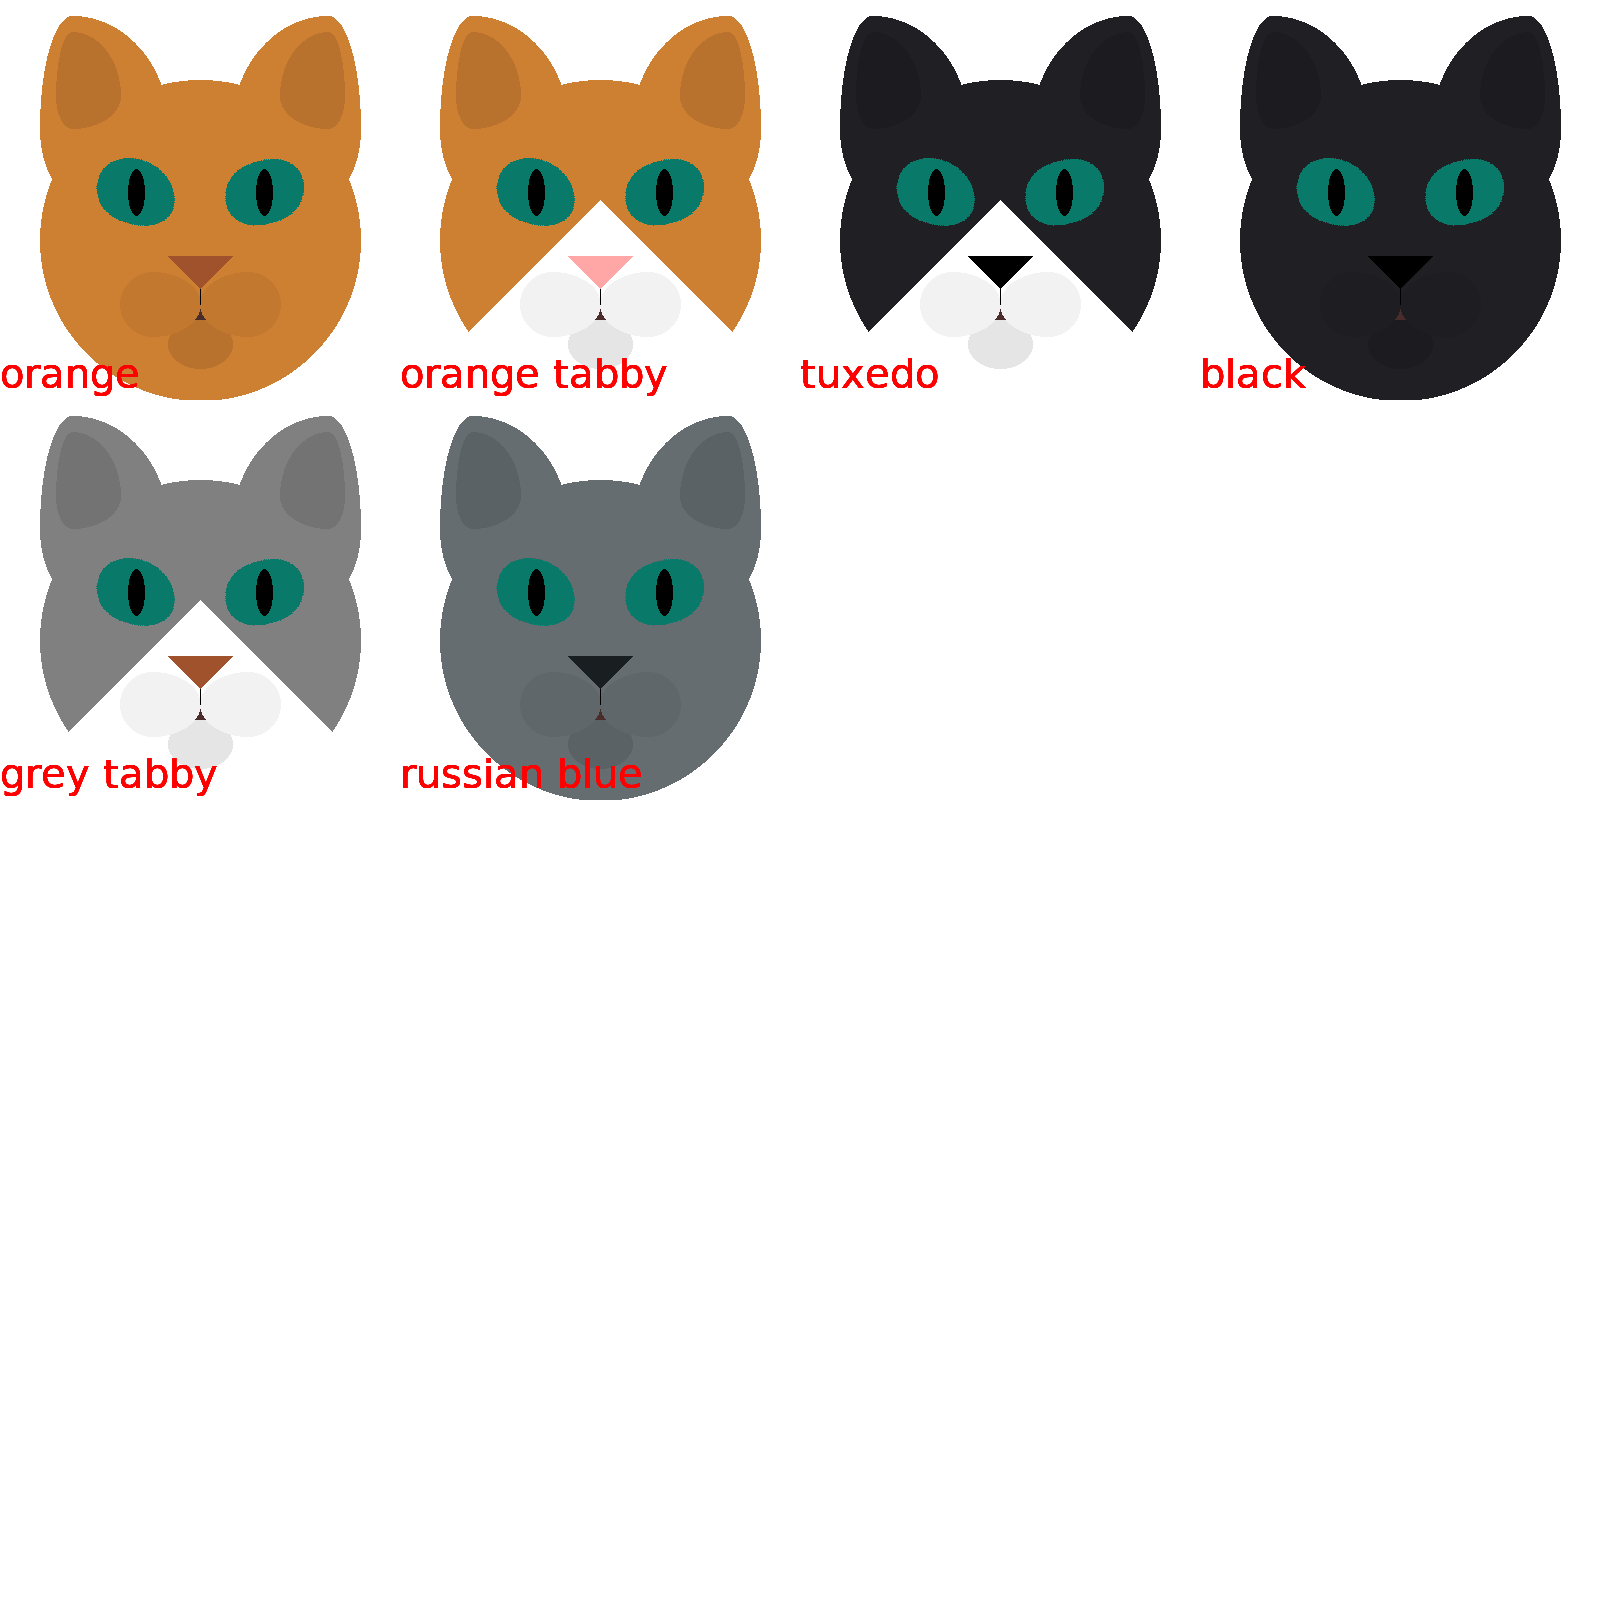
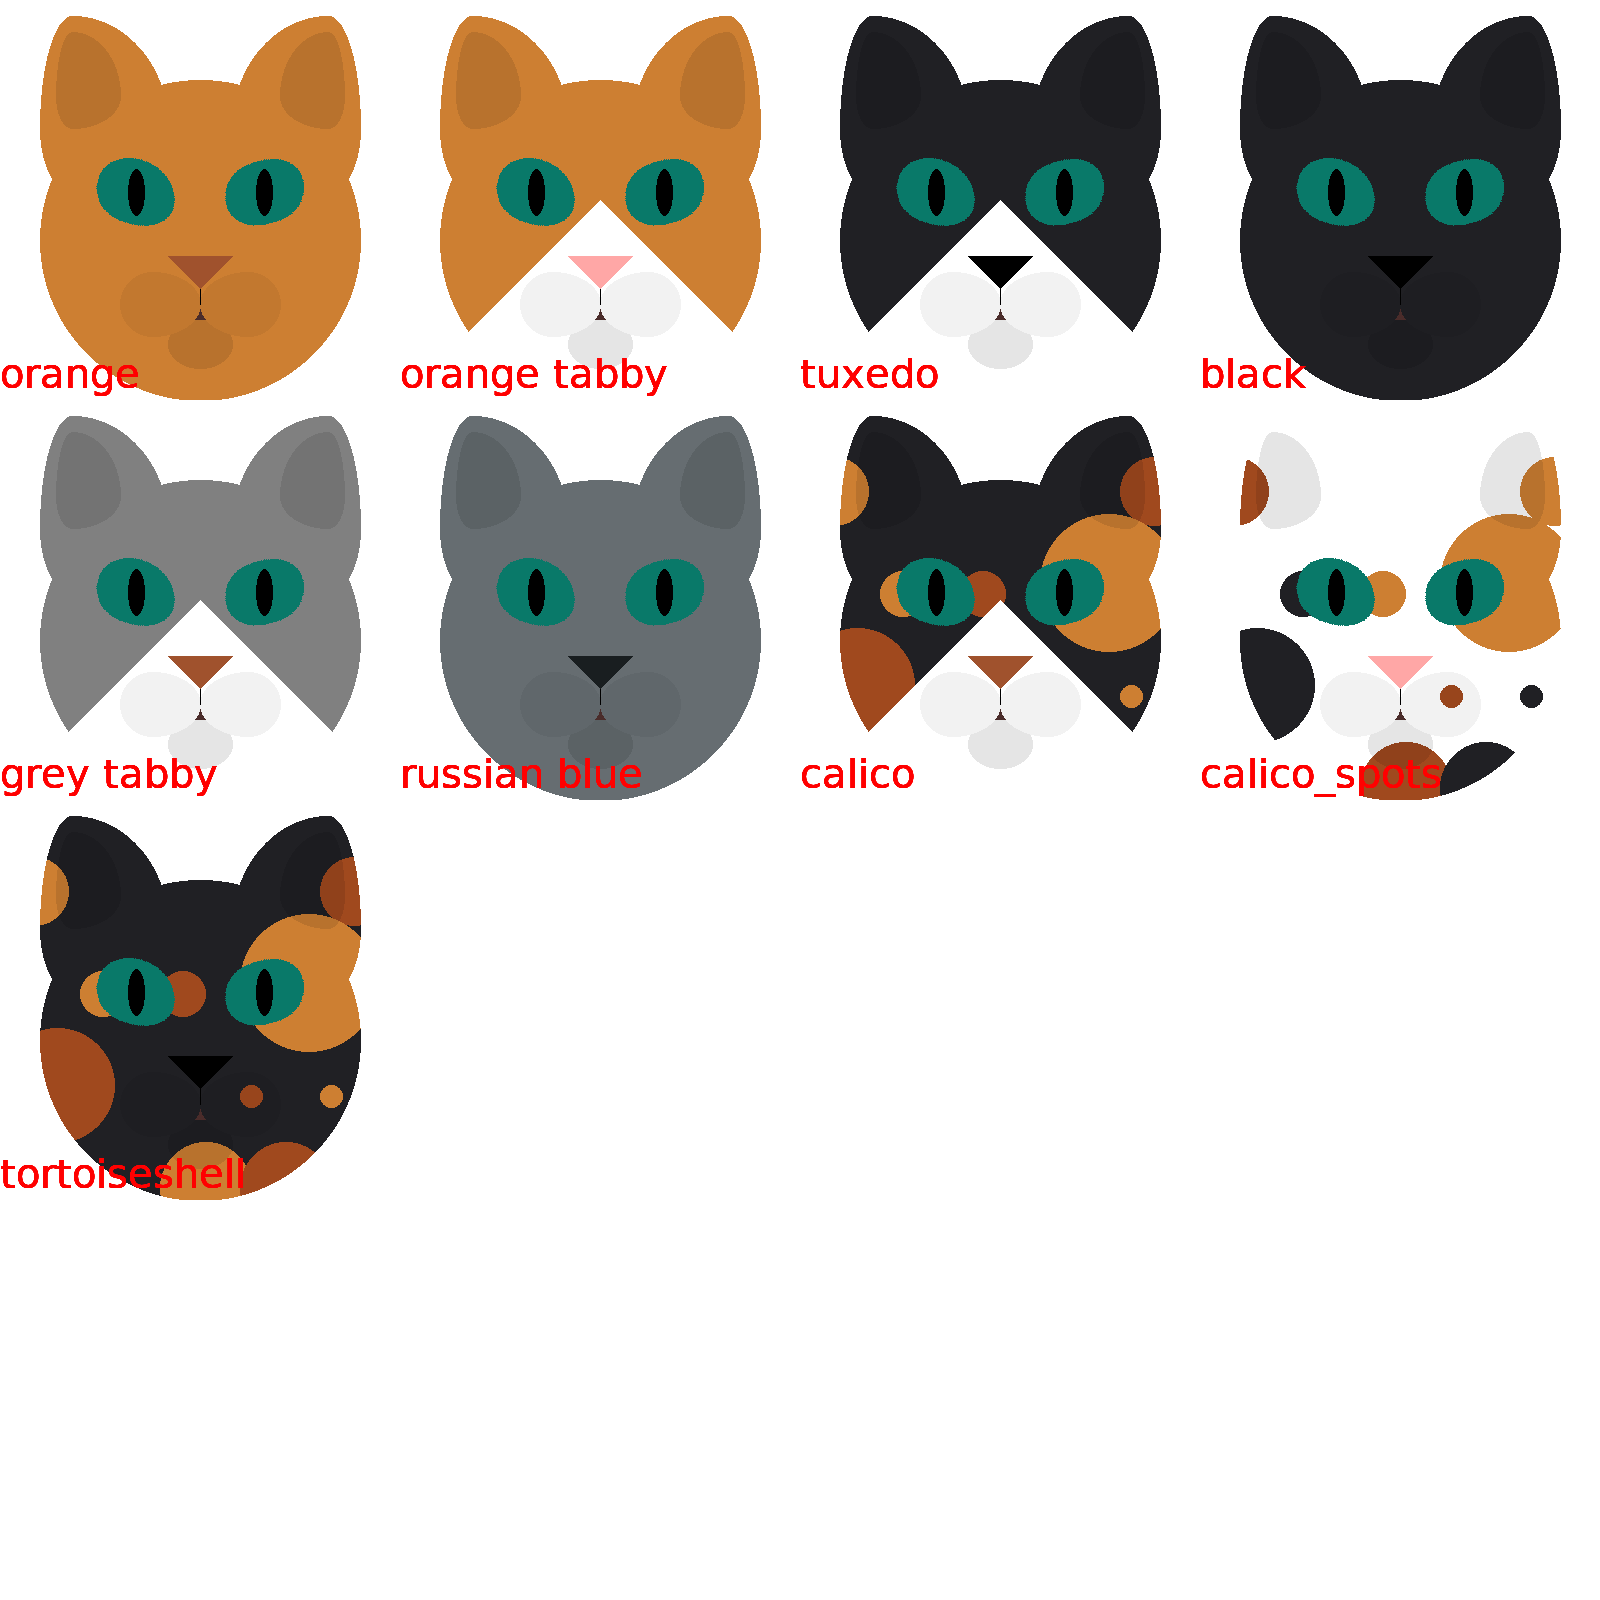
Add spots

Changed region(s): [[0.5, 0.25, 1.0, 0.5], [0.0, 0.5, 0.25, 0.75]]

diff --git a/catlib.py b/catlib.py
@@ -1,4 +1,5 @@
 import math
+import random
 from PIL import Image, ImageDraw, ImageEnhance
 
 # Background
@@ -27,6 +28,18 @@ class Head:
         "russian blue" : {"fill" : (102, 109, 113),
                           "nose" : (25, 30, 32),
                     "white_neck" : False},
+        "calico" : {"fill" : (32, 32, 36),
+                    "nose" : (160, 82, 45),
+                    "white_neck" : True,
+                    "spots" : [(205, 127, 50), (160, 73, 30)]},
+        "calico_spots" : {"fill" : "white",
+                    "nose" : (255, 167, 166),
+                    "white_neck" : False,
+                    "spots" : [(205, 127, 50), (160, 73, 30), (32, 32, 36)]},
+        "tortoiseshell" : {"fill" : (32, 32, 36),
+                    "nose" : "black",
+                    "white_neck" : False,
+                    "spots" : [(205, 127, 50), (160, 73, 30)]}
     }
     def __init__(self, width=1, height=1):
         self.w = width
@@ -35,6 +48,7 @@ class Head:
         self.nose = None
         self.white_neck = False
         self.brightness = 1.0
+        self.spots = None
     def draw(self, im):
         # All of the classes' draw methods copy the given image
         # and return the modified copy. This means that you can
@@ -152,7 +166,7 @@ class Head:
                                 end=180,
                                 fill="black",
                                 width=stroke_width[3])
-    def set_pattern(self, pattern_name=None, fill=None, nose=None, white_neck=None, brightness=None):
+    def set_pattern(self, pattern_name=None, fill=None, nose=None, white_neck=None, brightness=None, spots=None):
         if pattern_name is not None:
             for key in self.pattern_dict[pattern_name]:
                 setattr(self, key, self.pattern_dict[pattern_name][key])
@@ -164,12 +178,22 @@ class Head:
             self.white_neck = white_neck
         if brightness is not None:
             self.brightness = brightness
+        if spots is not None:
+            self.spots = spots
         return self
     def get_pattern(self, im):
         pattern = Image.new("RGB", im.size, (255, 255, 255))
         draw_obj = ImageDraw.Draw(pattern)
         if self.fill is not None:
             draw_obj.rectangle([(0, 0), (pattern.width, pattern.height)], fill=self.fill)
+        if self.spots is not None:
+            
+            for i in range(12):
+                x = (3 * i * pattern.width // 5) % pattern.width
+                y = (5 * i * pattern.width // 7) % pattern.width
+                s = (3*i*(pattern.width+pattern.height)//7) % ((pattern.width+pattern.height)//5)
+                f = self.spots[i % len(self.spots)]
+                draw_obj.ellipse([(x, y), (x+s, y+s)], f)
         if self.white_neck:
             draw_obj.polygon([(pattern.width/2, pattern.height/2), (pattern.width, pattern.height), (0, pattern.height)], fill="white")
         if self.brightness != 1.0:
@@ -193,6 +217,7 @@ class Mouth(Head):
         self.nose = None
         self.white_neck = False
         self.brightness = 0.9
+        self.spots = None
     def draw(self, im):
         im = im.copy()
         # Each part of the mouth is overlaid on the previous
@@ -252,6 +277,7 @@ class LeftCheek(Head):
         self.nose = None
         self.white_neck = False
         self.brightness = 0.95
+        self.spots = None
     def draw(self, im):
         im = im.copy()
         mask = Image.new("L", im.size, "white")
@@ -275,6 +301,7 @@ class RightCheek(Head):
         self.nose = None
         self.white_neck = False
         self.brightness = 0.95
+        self.spots = None
     def draw(self, im):
         im = im.copy()
         mask = Image.new("L", im.size, "white")
@@ -300,6 +327,7 @@ class LeftEar(Head):
         self.nose = None
         self.white_neck = False
         self.brightness = 1.0
+        self.spots = None
     def draw(self, im):
         mask = Image.new("L", im.size, "white")
         # Draw the outer ear first
@@ -345,6 +373,7 @@ class RightEar(Head):
         self.nose = None
         self.white_neck = False
         self.brightness = 1.0
+        self.spots = None
     def draw(self, im):
         mask = Image.new("L", im.size, "white")
         # Draw the outer ear first
@@ -389,6 +418,7 @@ class Nose(Head):
         self.nose = (160, 82, 45)
         self.white_neck = False
         self.brightness = 1.0
+        self.spots = None
     def draw(self, im):
         im = im.copy()
         ox = 1250

diff --git a/README.md b/README.md
@@ -9,7 +9,6 @@
 # TODO
 
   * Separate standard properties and methods into a Cat() class instead of just the Head() class
-  * Add calico pattern
   * Add tabby pattern
   * Add paws
   * Add special things
